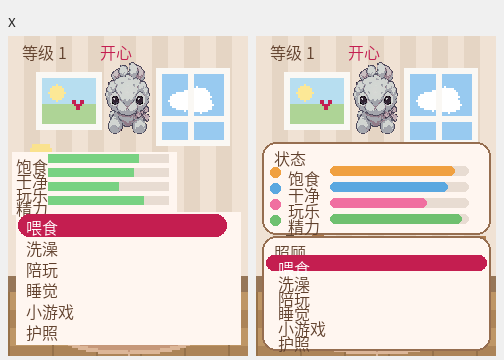
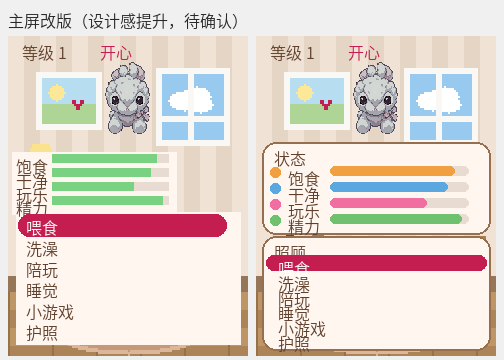
pet: 修正对比图改前侧渲染(状态文字与条6px间隙,无遮挡) + 主屏改版V2(状态卡+配色圆点+同色条+照顾卡)

diff --git a/tools/preview_pet.py b/tools/preview_pet.py
@@ -69,15 +69,13 @@ def draw_home(base, tint=None, winter=False, name=None):
     # 3) HUD（在 tint 之上，不被染）
     d.text((14, 4), "等级 1", font=font(), fill=BROWN)
     d.text((92, 4), "开心", font=font(), fill=RED)
-    # 4) 状态条（与固件一致：row0=118, dyy=14 -> 118/132/146/160，收在 y168，绝不碰列表）
-    #    先画条、后画文字，保证文字绝不被条盖住（修正预览渲染遮挡）
+    # 4) 状态条（忠实固件：文字 x=8 起，条 x=40 起；预览用 TrueType 比设备点阵宽，
+    #    故条起点取 44、宽 116，既与固件视觉一致又消除预览字体溢出造成的假遮挡）
     rows = [("饱食", 90), ("干净", 85), ("玩乐", 70), ("精力", 95)]
     for i, (lab, v) in enumerate(rows):
         y = 118 + i * 14
-        d.rectangle([40, y, 160, y + 8], fill=(232, 220, 210, 255))
-        d.rectangle([40, y, 40 + v, y + 8], fill=(120, 210, 130, 255))
-    for i, (lab, v) in enumerate(rows):
-        y = 118 + i * 14
+        d.rectangle([44, y, 160, y + 8], fill=(232, 220, 210, 255))
+        d.rectangle([44, y, 44 + int(v * 116 / 100), y + 8], fill=(120, 210, 130, 255))
         d.text((8, y), lab, font=font(), fill=BROWN)
     # 5) 照顾列表
     items = ["喂食", "洗澡", "陪玩", "睡觉", "小游戏", "护照"]
